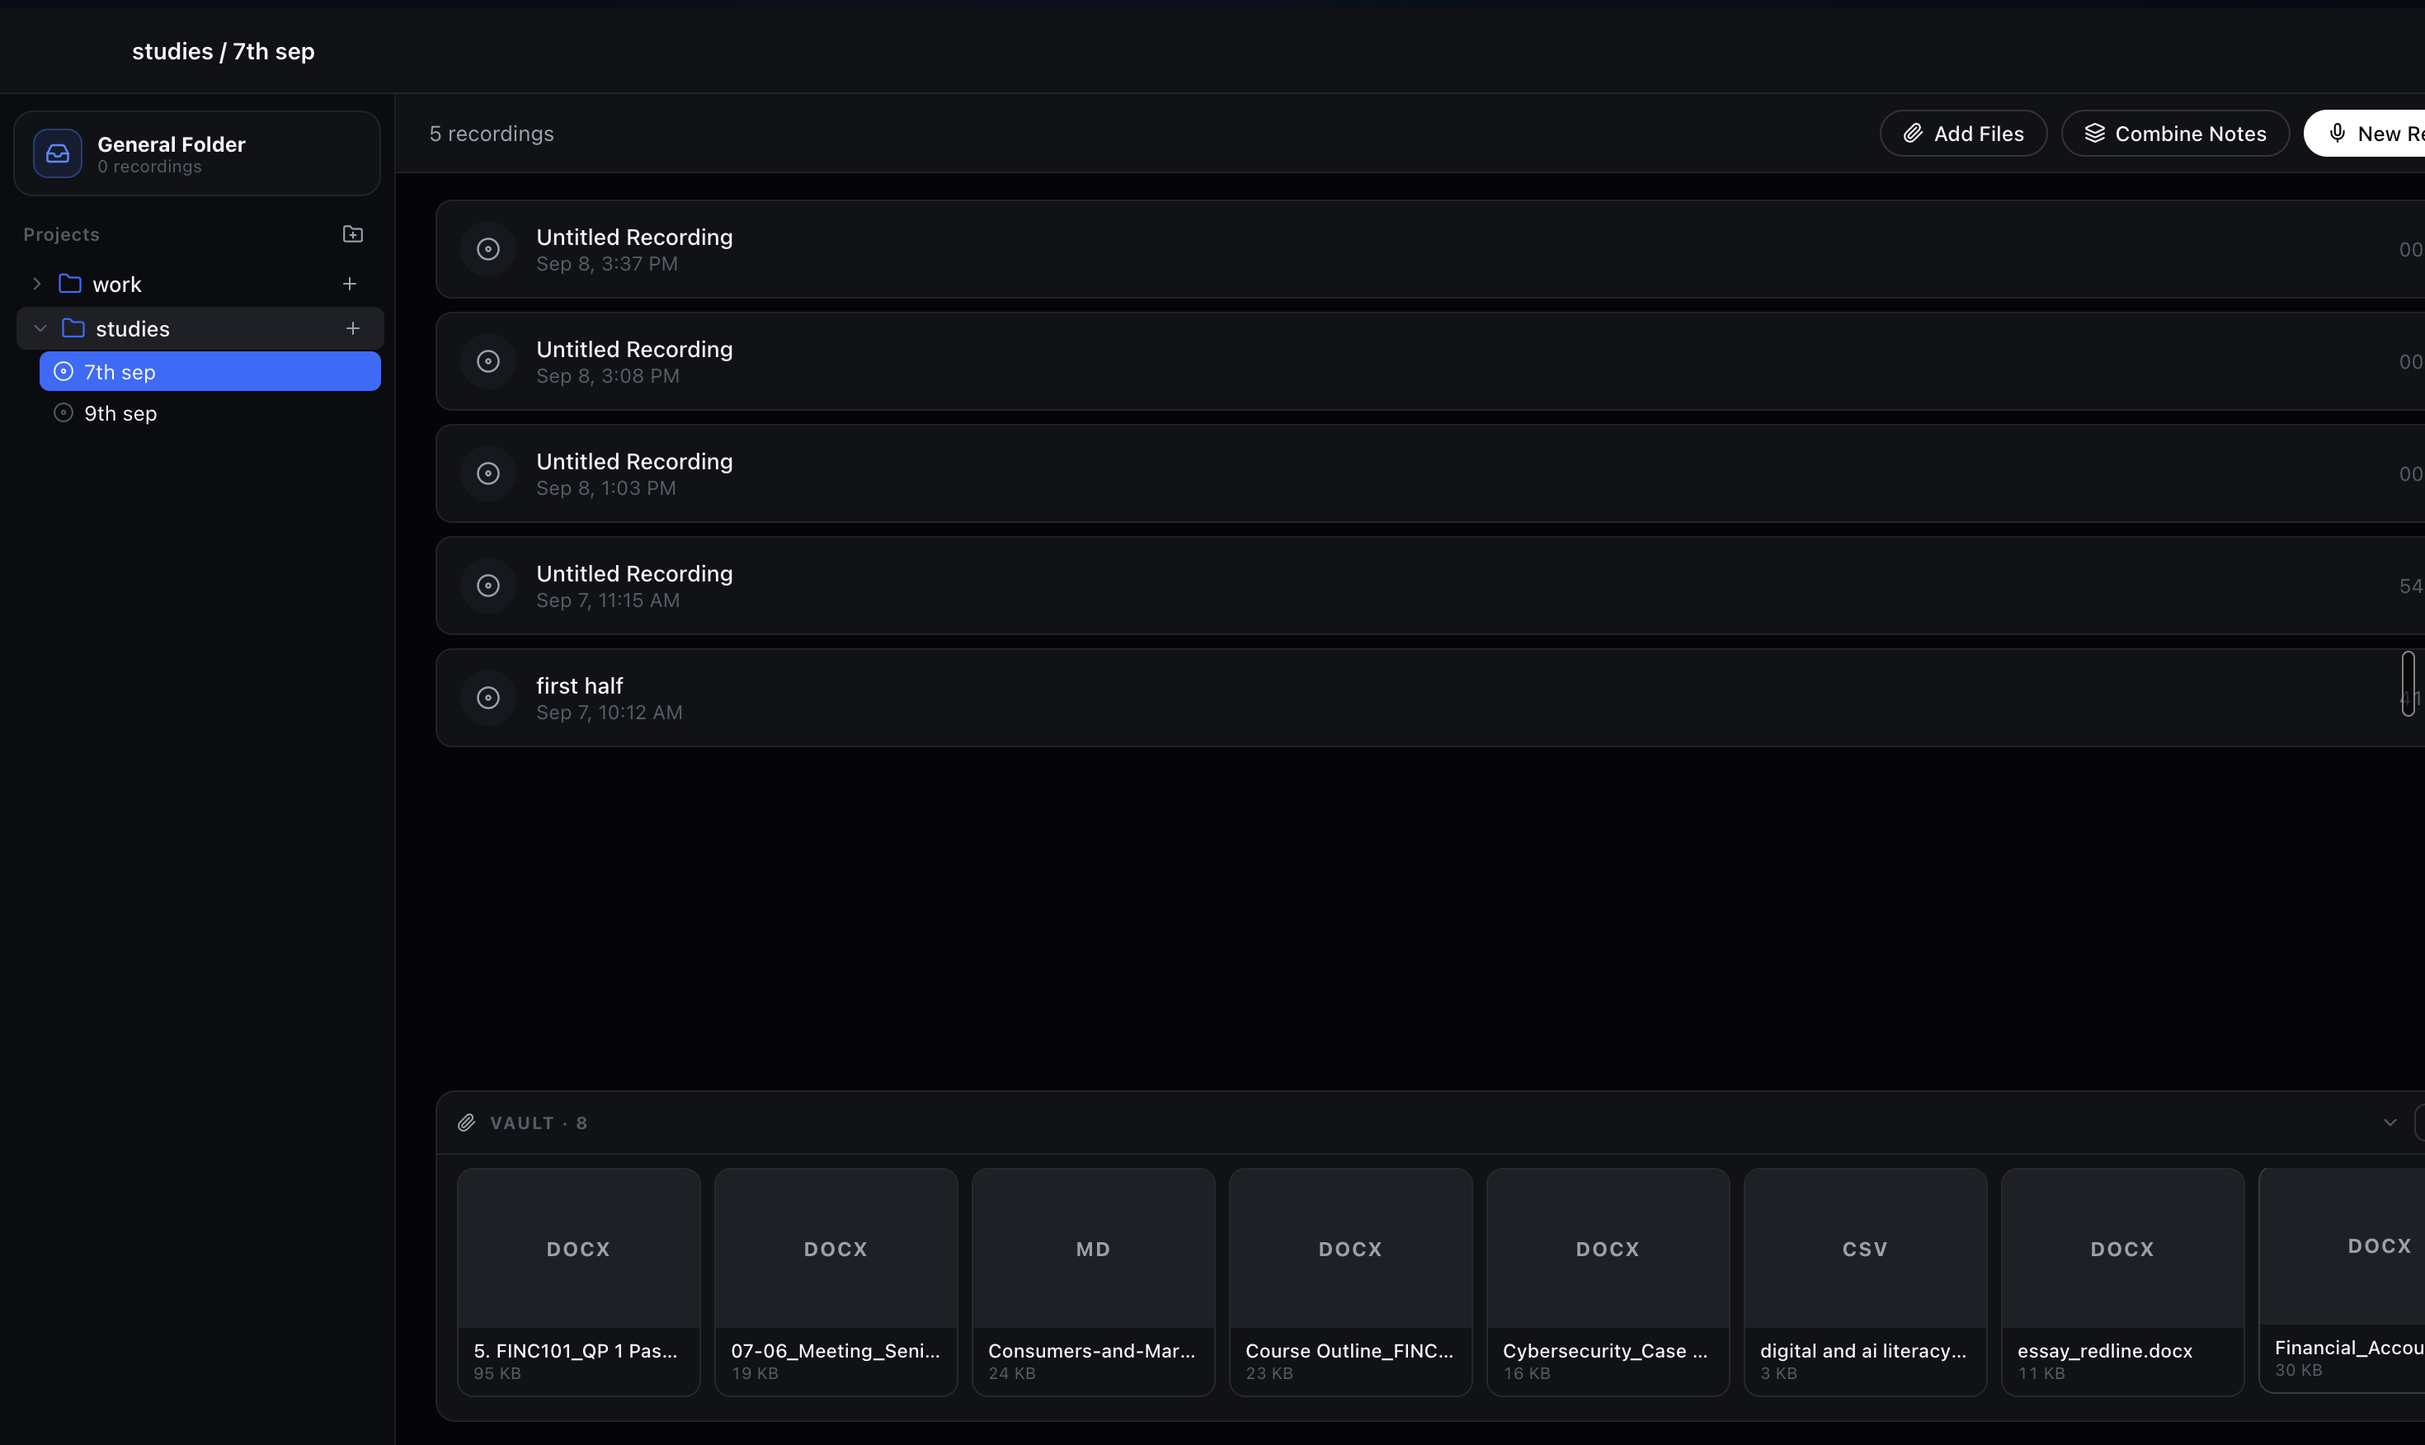
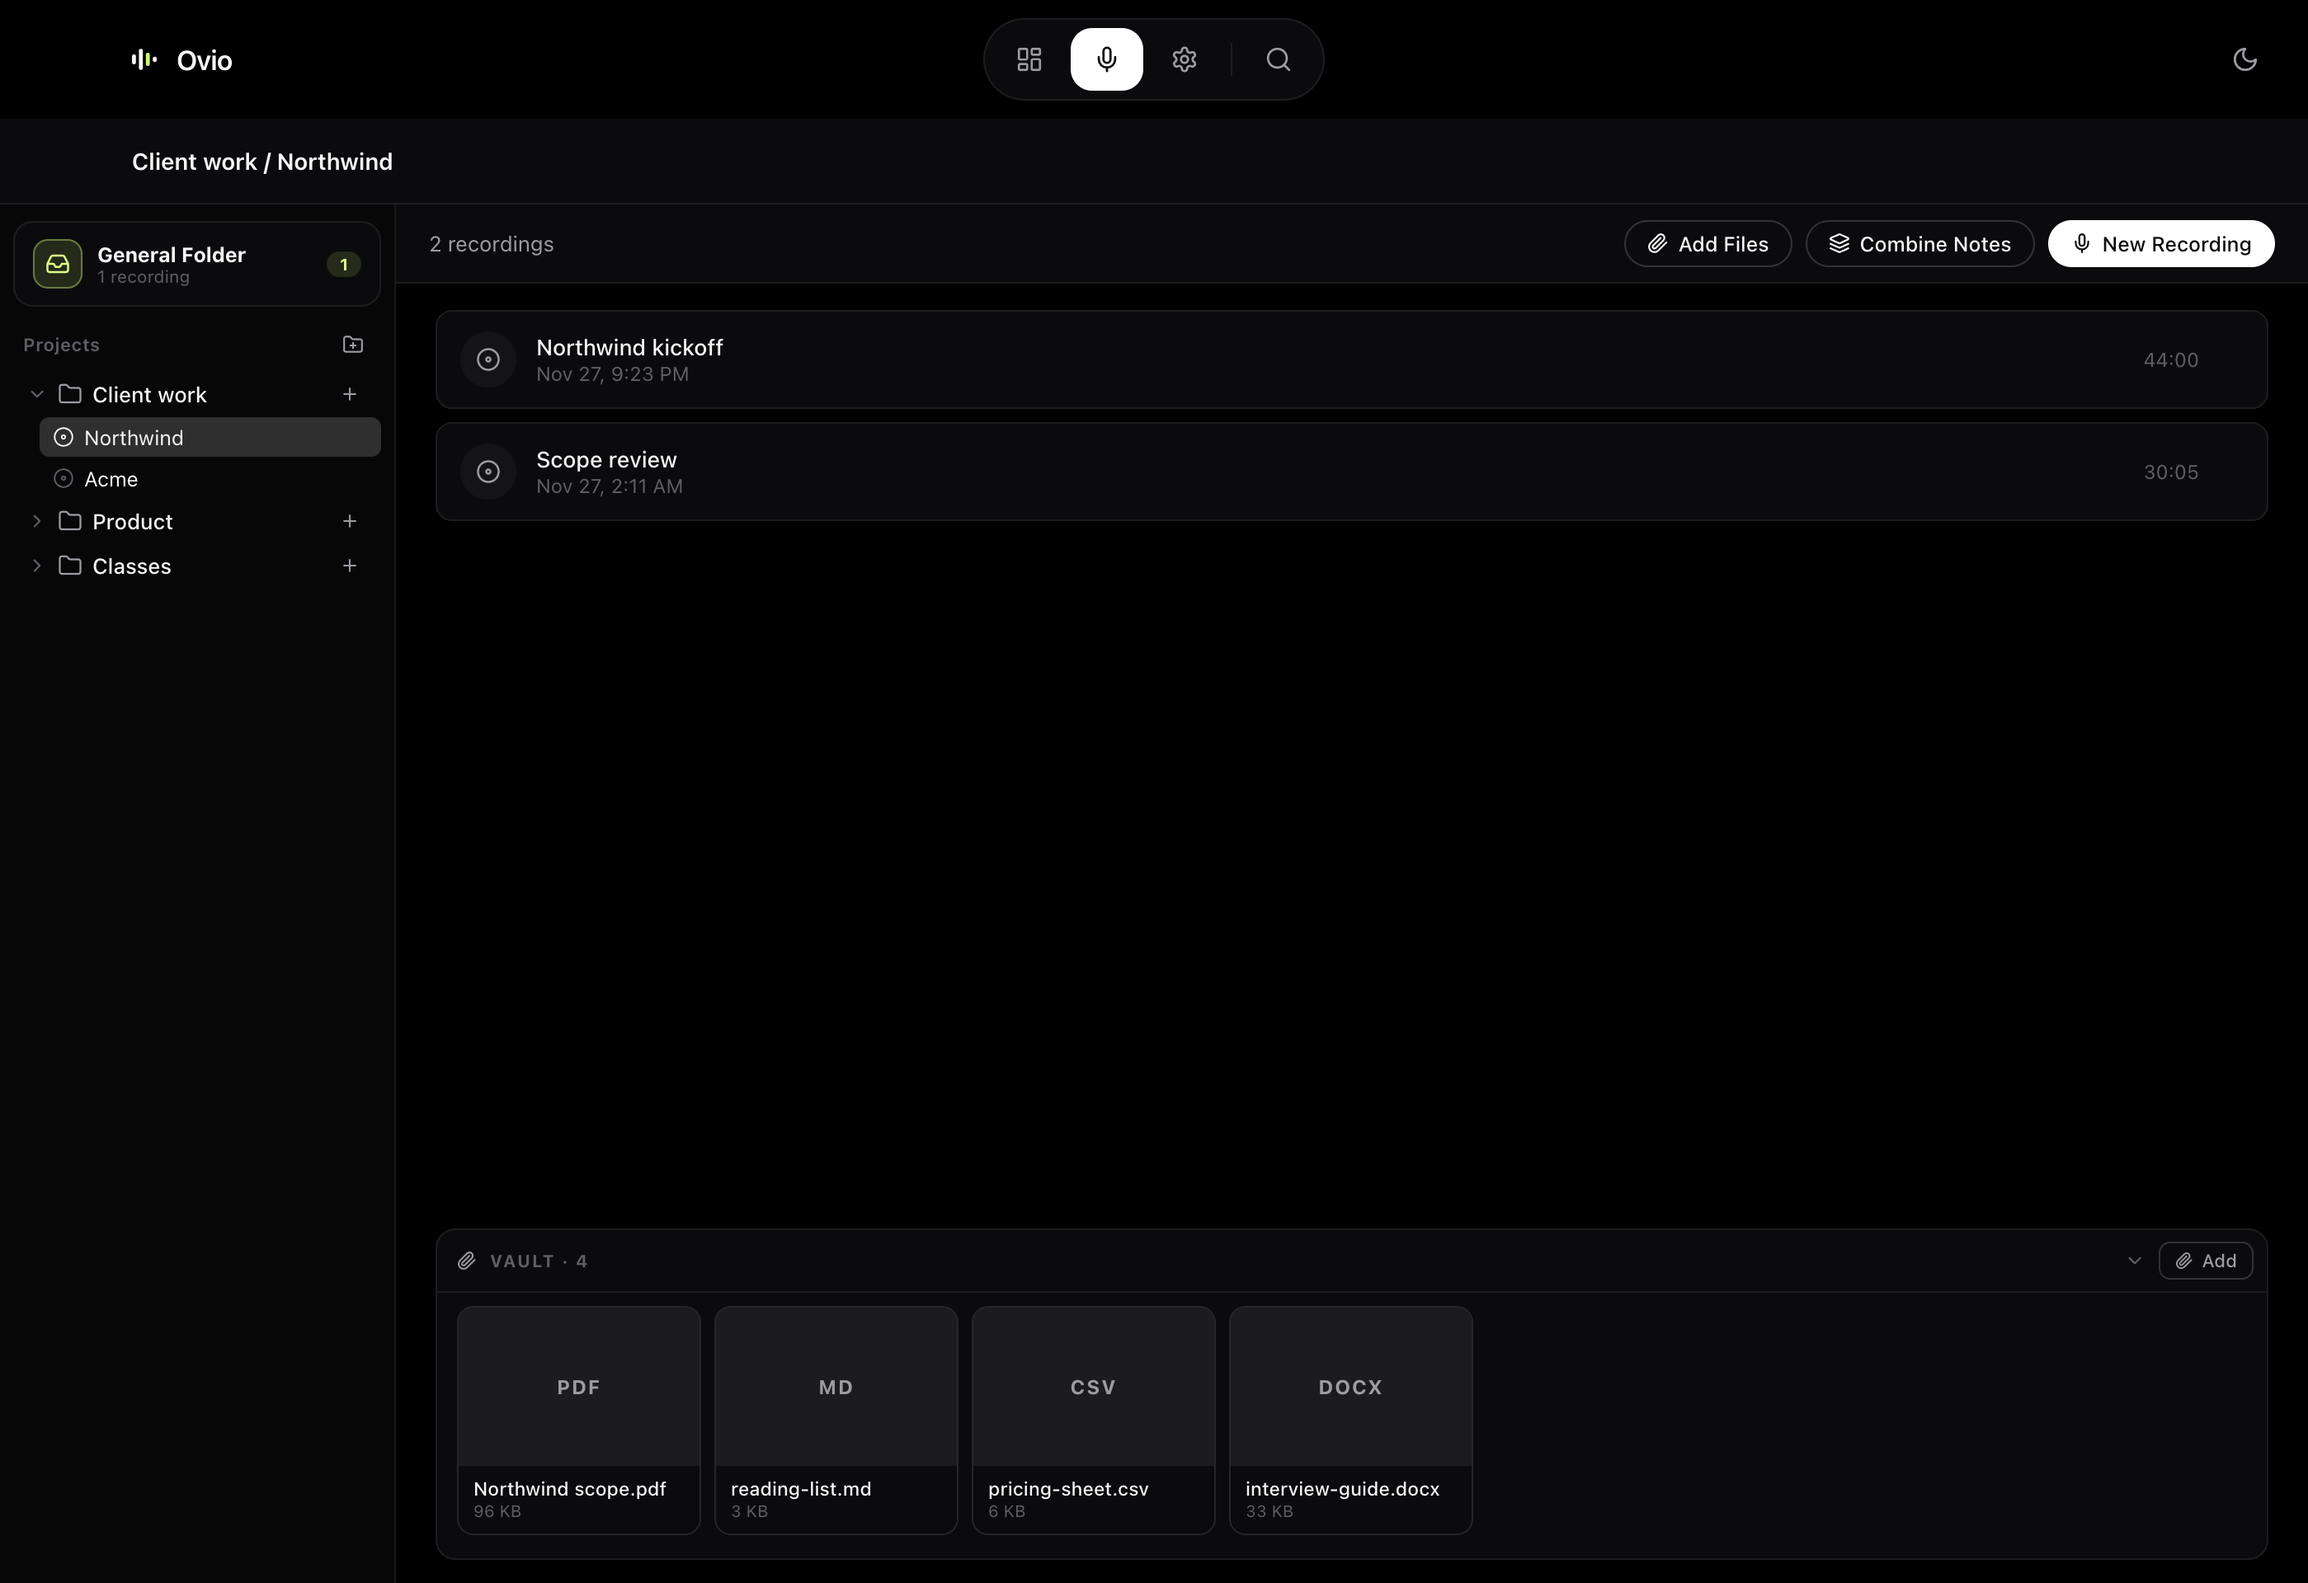
Show the current interface in the README
The README still used screenshots of the previous design, including a light theme capture with the old logo. Swap in fresh dark screenshots of the shipped app, use the current app icon, and drop the stale image.

diff --git a/README.md b/README.md
@@ -33,7 +33,7 @@ It listens through your microphone, which makes it good for in-person meetings, 
 - **Ask your old meetings anything.** Type "what did we decide about pricing?" and Ovio answers from your recordings and shows which ones it used.
 - **Files live next to your recordings.** Every folder has a vault for the PDFs, docs and images that go with that meeting.
 
-![AI notes beside a live recording](assets/screenshot-ai-notes.png)
+![A recording open in the Recorder](assets/screenshot-recorder.png)
 
 ## Install
 
@@ -93,7 +93,7 @@ The top pill has the four places you need: **Dashboard** for stats, projects and
 
 Recordings live in projects, and projects hold folders. The General Folder is the inbox for quick takes.
 
-![Vault and project files](assets/screenshot-vault.png)
+![Vault with the files attached to a folder](assets/screenshot-vault.png)
 
 ## Privacy
 
